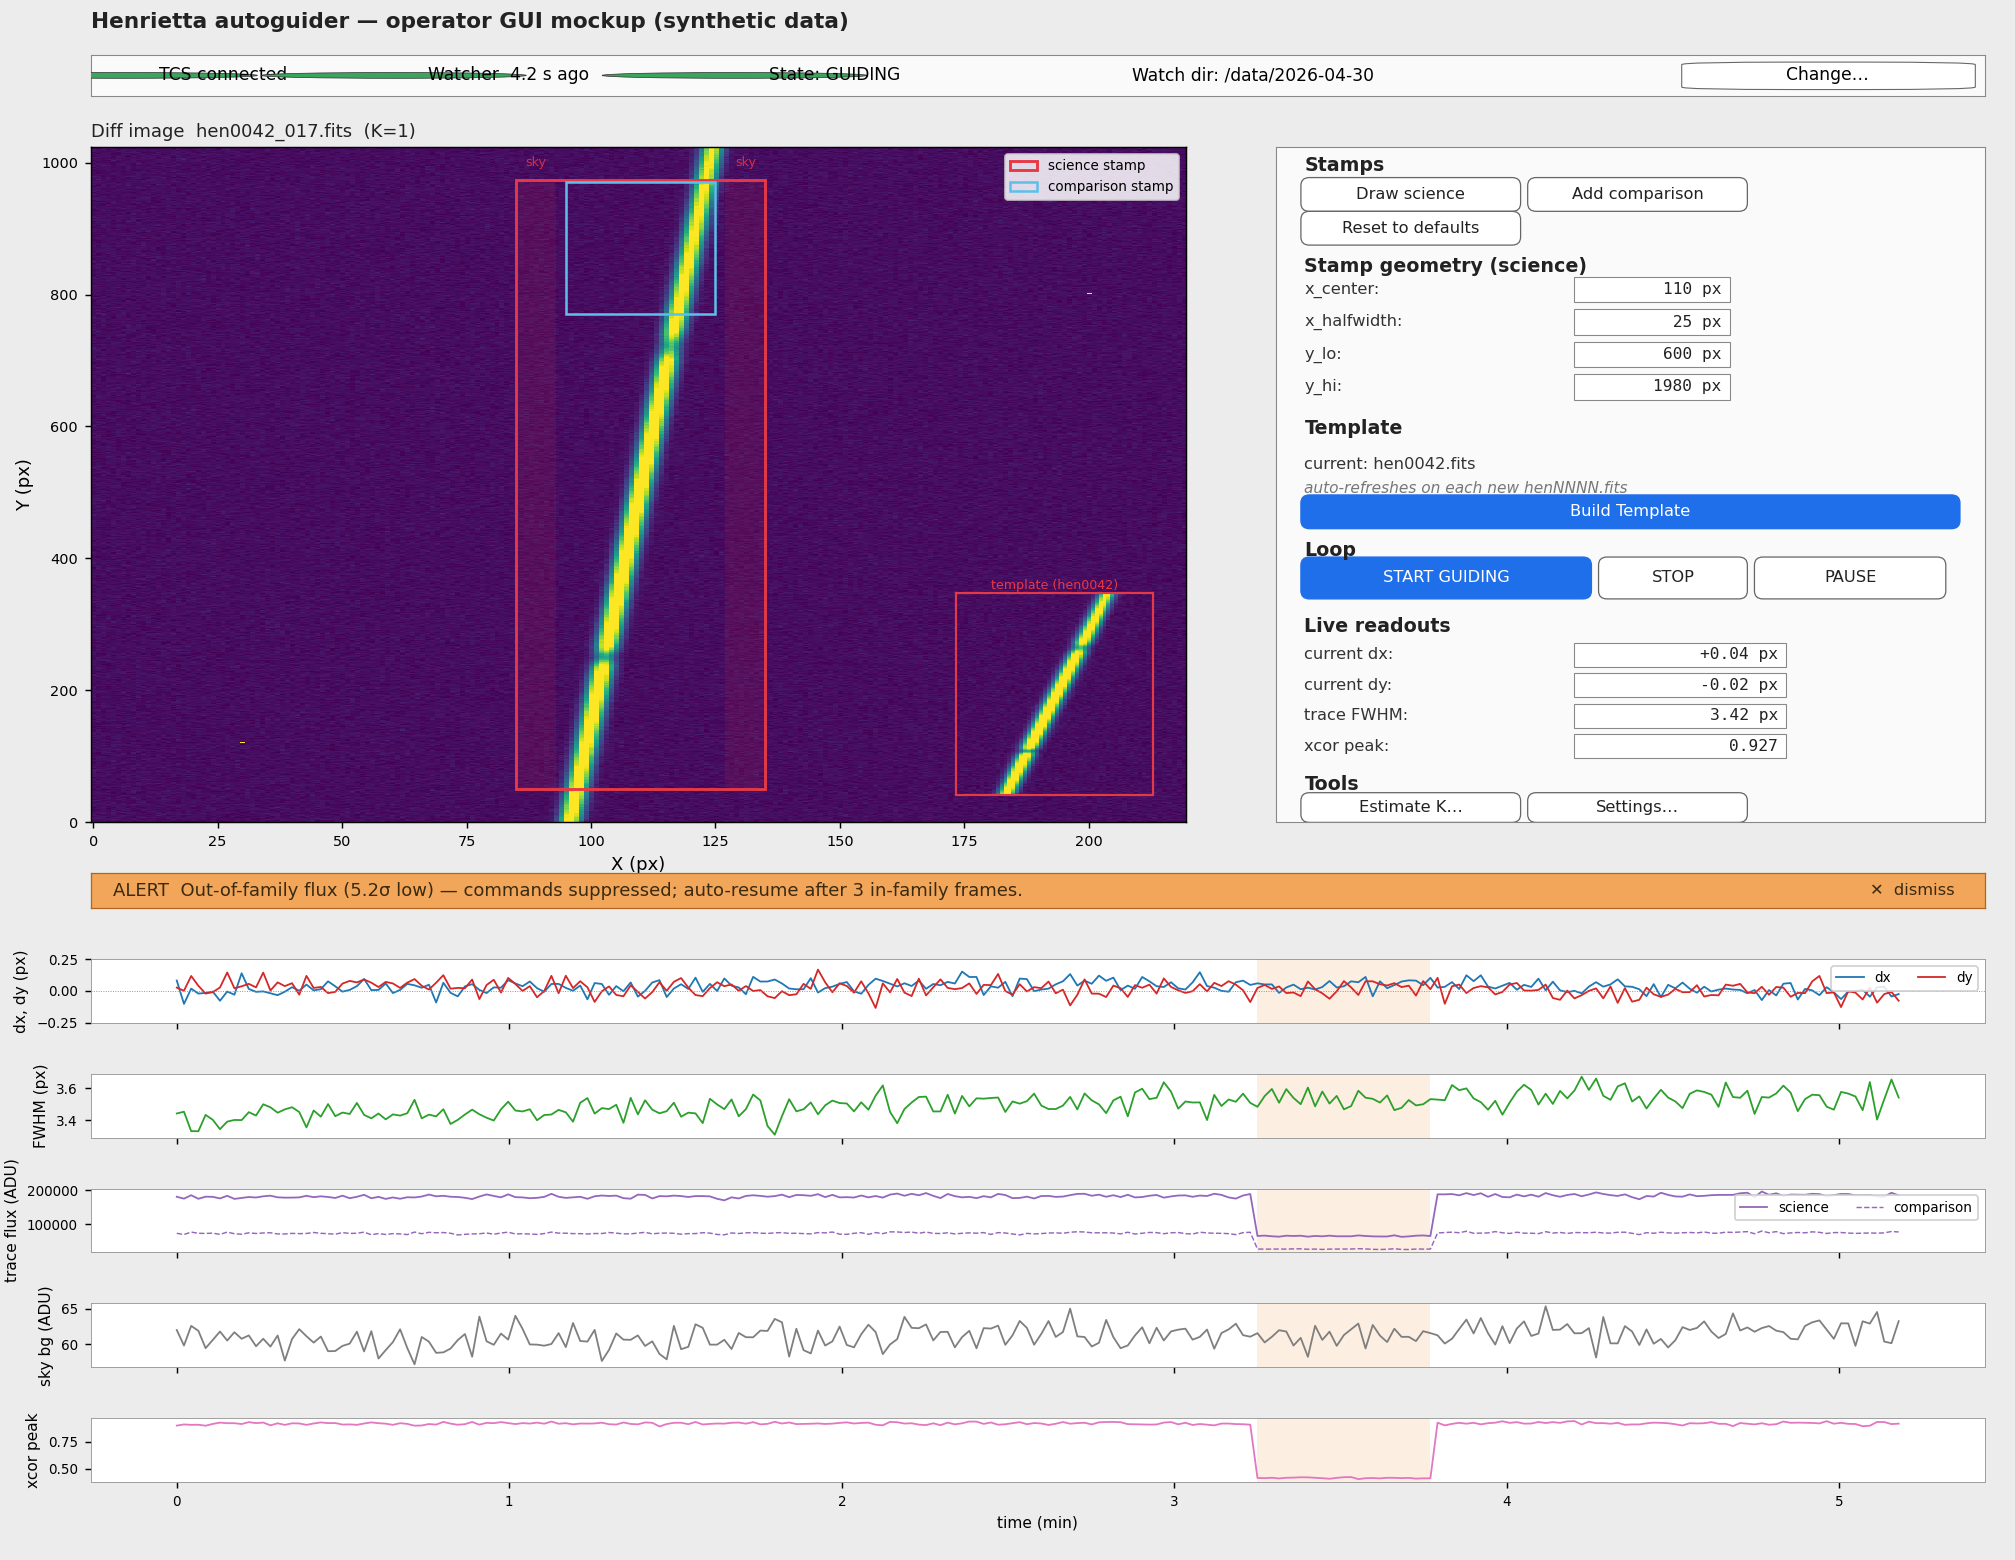
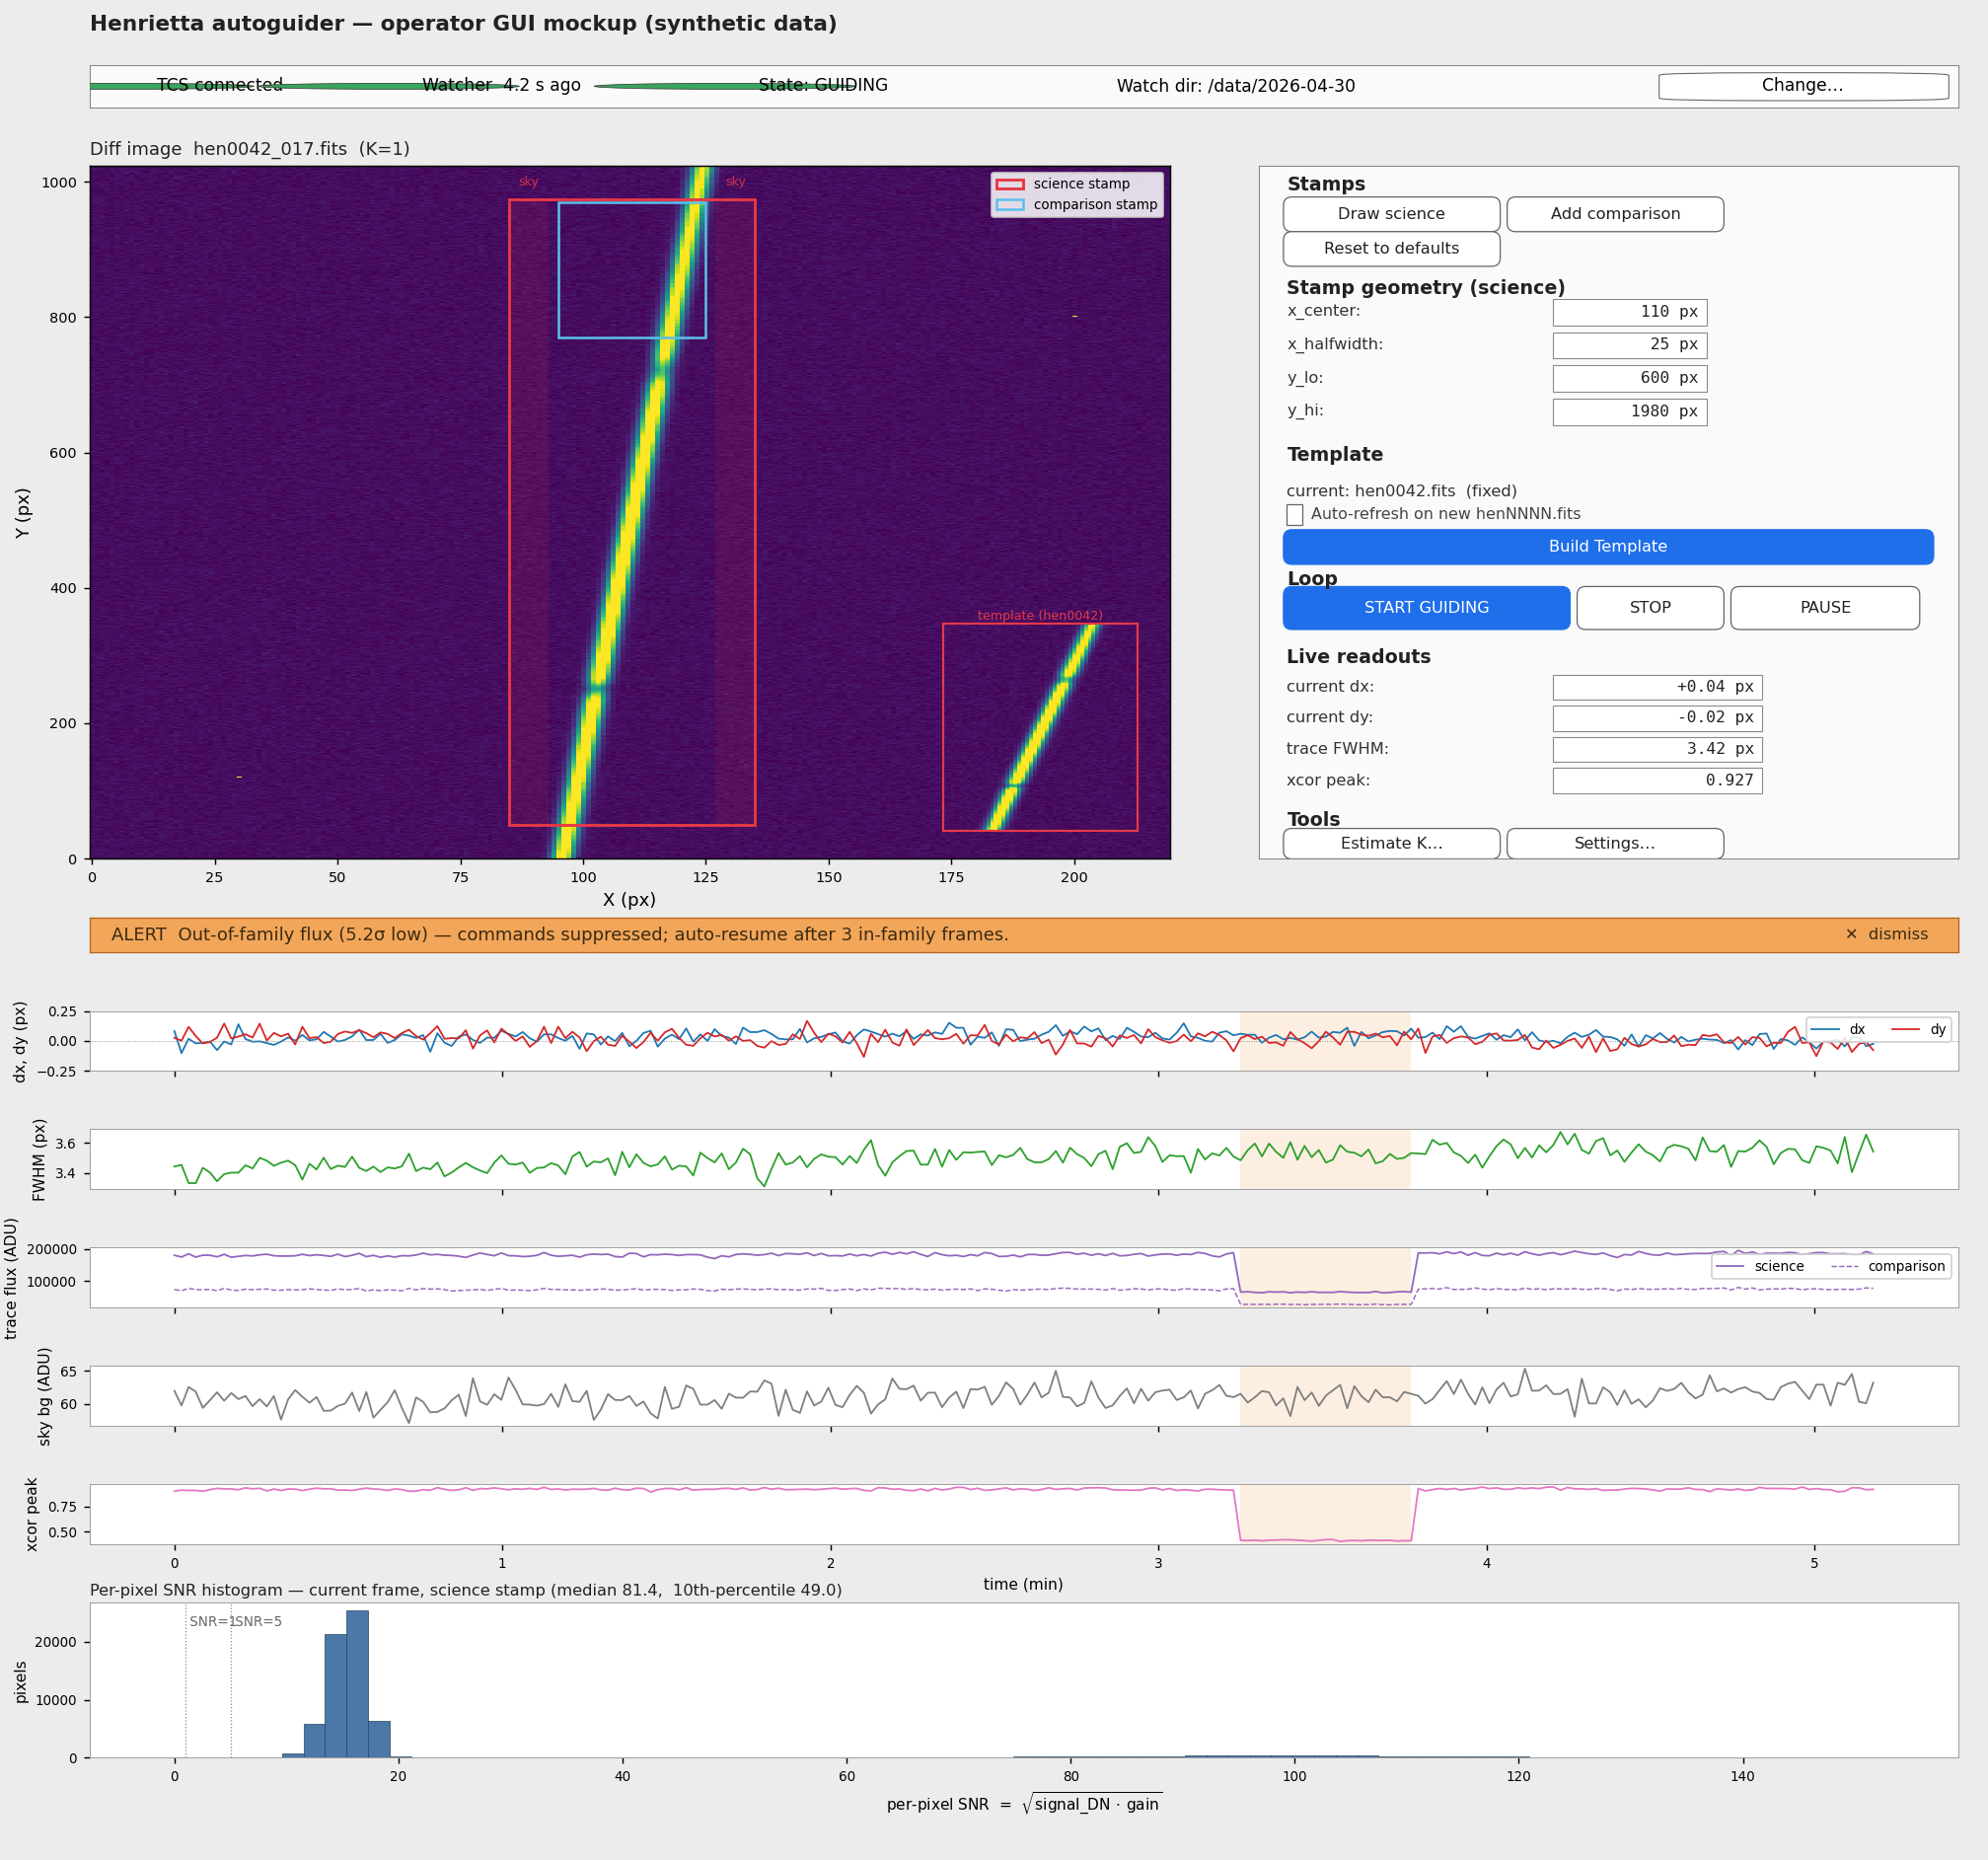
Auto-refresh template is opt-in; add per-pixel SNR histogram panel
Two related changes from the iteration just now:

1. Template behavior: by default the template stays FIXED at whatever
   henNNNN.fits the user pointed at via Build Template. A new config
   reduction.auto_refresh_template (default false), and an Auto-refresh
   checkbox in the GUI Template panel, opts into "promote each
   subsequent successful henNNNN.fits build into the active template."

2. Per-pixel SNR diagnostic. New live histogram showing the
   shot-noise-limited SNR distribution per stamp pixel:
       SNR_per_px = sqrt(signal_DN * gain_e_per_DN)
   where signal_DN = current_read - reset_read (cumulative-since-reset,
   no sky subtraction). Shown as a snapshot histogram at the bottom of
   the GUI, with vertical guides at SNR=1 and SNR=5. Two summary stats
   (median and 10th-percentile) are stored to stamp_measurements per
   frame for retrospective trend analysis.

Mockup updated to match: Auto-refresh checkbox, histogram panel as a
new bottom row.

diff --git a/mockups/gui_mockup.py b/mockups/gui_mockup.py
@@ -92,6 +92,20 @@ def synth_timeseries(n: int = 240, rng: np.random.Generator | None = None):
     return t, dx, dy, fwhm, flux, flux_cmp, sky, xcor
 
 
+def synth_snr_per_pixel(rng: np.random.Generator | None = None,
+                        gain_e_per_dn: float = 4.0) -> np.ndarray:
+    """Synthetic per-pixel SNR distribution for the science stamp:
+    a low-SNR sky pedestal plus a high-SNR trace ridge."""
+    if rng is None:
+        rng = np.random.default_rng(11)
+    # ~70k pixels in the stamp. Most are sky-dominated (low signal),
+    # a few thousand sit on the trace (high signal).
+    sky_DN   = np.clip(rng.normal(60, 12, 60000), 1, None)
+    trace_DN = np.clip(rng.normal(2400, 800, 8000), 1, None)
+    all_DN   = np.concatenate([sky_DN, trace_DN])
+    return np.sqrt(all_DN * gain_e_per_dn)
+
+
 # ---------------------------------------------------------------------------
 # Figure layout
 # ---------------------------------------------------------------------------
@@ -99,16 +113,19 @@ def synth_timeseries(n: int = 240, rng: np.random.Generator | None = None):
 def render():
     img = synth_image()
     t, dx, dy, fwhm, flux, flux_cmp, sky, xcor = synth_timeseries()
+    snr = synth_snr_per_pixel()
 
-    fig = plt.figure(figsize=(15.5, 12.0), facecolor="#ECECEC")
+    fig = plt.figure(figsize=(15.5, 14.5), facecolor="#ECECEC")
     gs = GridSpec(
-        nrows=9,
+        nrows=10,
         ncols=2,
-        height_ratios=[0.6, 4.5, 4.5, 0.5, 0.92, 0.92, 0.92, 0.92, 0.92],
+        height_ratios=[0.6, 4.5, 4.5, 0.5,
+                       0.85, 0.85, 0.85, 0.85, 0.85,  # 5 time-series rows
+                       2.20],                           # SNR histogram (taller)
         width_ratios=[3.4, 2.2],
-        hspace=0.45,
+        hspace=0.50,
         wspace=0.10,
-        left=0.045, right=0.985, top=0.965, bottom=0.05,
+        left=0.045, right=0.985, top=0.965, bottom=0.055,
     )
 
     # ---- status bar (top) ---------------------------------------------------
@@ -250,14 +267,17 @@ def render():
 
     # Template section
     section(ax_ctrl, 0.575, "Template")
-    ax_ctrl.text(0.04, 0.530, "current: hen0042.fits",
+    ax_ctrl.text(0.04, 0.530, "current: hen0042.fits  (fixed)",
                  transform=ax_ctrl.transAxes,
                  va="center", ha="left", fontsize=9, color="#333")
-    ax_ctrl.text(0.04, 0.495, "auto-refreshes on each new henNNNN.fits",
+    # Unchecked checkbox + label
+    ax_ctrl.add_patch(mpatches.Rectangle(
+        (0.04, 0.482), 0.022, 0.030, transform=ax_ctrl.transAxes,
+        facecolor="white", edgecolor="#666", lw=0.7))
+    ax_ctrl.text(0.075, 0.497, "Auto-refresh on new henNNNN.fits",
                  transform=ax_ctrl.transAxes,
-                 va="center", ha="left", fontsize=8.5, color="#777",
-                 fontstyle="italic")
-    button(ax_ctrl, 0.04, 0.440, 0.92, 0.040, "Build Template", primary=True)
+                 va="center", ha="left", fontsize=8.8, color="#444")
+    button(ax_ctrl, 0.04, 0.430, 0.92, 0.040, "Build Template", primary=True)
 
     # Loop section
     section(ax_ctrl, 0.395, "Loop")
@@ -326,6 +346,30 @@ def render():
             ax.set_xlabel("time (min)", fontsize=8.5)
         else:
             ax.set_xticklabels([])
+
+    # ---- per-pixel SNR histogram (last row, full width) --------------------
+    ax_hist = fig.add_subplot(gs[9, :])
+    ax_hist.set_facecolor("#FFFFFF")
+    for s in ax_hist.spines.values():
+        s.set_edgecolor("#999"); s.set_linewidth(0.5)
+    bins = np.linspace(0, snr.max() * 1.05, 80)
+    ax_hist.hist(snr, bins=bins, color="#4c78a8", edgecolor="#274860",
+                 linewidth=0.4)
+    ax_hist.axvline(1.0,  color="#888", lw=0.7, ls=":")
+    ax_hist.axvline(5.0,  color="#888", lw=0.7, ls=":")
+    ax_hist.text(1.0,  ax_hist.get_ylim()[1] * 0.92, " SNR=1",
+                 color="#666", fontsize=7.5, va="top")
+    ax_hist.text(5.0,  ax_hist.get_ylim()[1] * 0.92, " SNR=5",
+                 color="#666", fontsize=7.5, va="top")
+    ax_hist.set_xlabel(r"per-pixel SNR  =  $\sqrt{\mathrm{signal\_DN}\,\cdot\,\mathrm{gain}}$",
+                       fontsize=8.5)
+    ax_hist.set_ylabel("pixels", fontsize=8.5)
+    ax_hist.set_title(
+        "Per-pixel SNR histogram — current frame, science stamp "
+        "(median 81.4,  10th-percentile 49.0)",
+        fontsize=9, loc="left", color="#222", pad=4,
+    )
+    ax_hist.tick_params(labelsize=7.5)
 
     fig.suptitle(
         "Henrietta autoguider — operator GUI mockup (synthetic data)",

diff --git a/docs/superpowers/specs/2026-04-30-henrietta-autoguider-design.md b/docs/superpowers/specs/2026-04-30-henrietta-autoguider-design.md
@@ -395,21 +395,31 @@ science stamp (and optionally the comparison stamp) from that file,
 applies the BPM, and runs the local sky subtraction described above.
 The resulting bg-subtracted, masked stamp **is** the template `T(x, y)`.
 
-**Sliding template — single most-recent good frame.** Each
-`henNNNN.fits` is already a slope-fit across all that integration's
+**Template lifecycle — fixed by default; auto-refresh is opt-in.**
+Each `henNNNN.fits` is already a slope-fit across all that integration's
 SUTRs, so on its own it is a high-SNR representation of the trace. The
-autoguider keeps **one** template at a time: the most recent
-`henNNNN.fits` for which the build succeeded (no read error, enough
-unmasked pixels in the stamp, non-zero variance after sky subtraction).
-As new `henNNNN.fits` files arrive, each is offered for promotion; on
-success it replaces the active template, and on failure the previous
-template continues in use. This gives drift adaptation across a long
-night without any averaging machinery to manage.
+autoguider keeps **one** template at a time.
 
-When the user clicks **"Build Template"**, the most recent `henNNNN.fits`
-is taken (failing the request if none has arrived yet on the current
-target). After that click guiding can start immediately on that
-template; subsequent arrivals continue to refresh it automatically.
+When the user clicks **"Build Template"**, the most recent
+`henNNNN.fits` is taken (failing the request if none has arrived yet on
+the current target). The build is validated (no read error, enough
+unmasked pixels in the stamp, non-zero variance after sky subtraction).
+On success that frame becomes the active template and the GUI moves to
+`REFERENCE_SET`; on failure an `ERROR` banner appears and the user
+stays in `REFERENCE_PENDING`.
+
+By default the template **stays fixed** for the rest of the session —
+exactly the frame the user pointed at, until they explicitly click
+Build Template again or the state machine resets it (stale-frame
+timeout, target switch, watch-dir change).
+
+Setting `reduction.auto_refresh_template = true` (or toggling the
+**Auto-refresh** checkbox in the Template panel) enables an opt-in
+behaviour: each subsequent `henNNNN.fits` is offered for promotion;
+on a successful build it replaces the active template, and on a
+failure the previous template stays in use. This trades a fixed
+reference for one that follows slow shape evolution (water vapour,
+airmass, thermal drift, flexure) on long sequences.
 
 The template is held in memory only and is **not** persisted across
 restarts — it must be re-built each time the autoguider starts.
@@ -474,6 +484,21 @@ Per-frame quantities recorded for analysis:
 - `sky_background_adu` — median of per-row sky pedestals.
 - `template_frame_number` — which `henNNNN.fits` produced the active
   template, for retrospective traceability.
+- **Per-pixel shot-noise-limited SNR.** Using the cumulative signal in
+  the current frame (i.e., `current_read − reset_read`, not the K-window
+  diff) without sky subtraction:
+
+  ```
+  signal_DN     = current_read − reset_read     # per pixel, full frame so far
+  SNR_per_px    = sqrt(signal_DN × gain_e_per_DN)
+  ```
+
+  This is the per-pixel SNR you'd have under shot-noise-only assumption.
+  It's a snapshot per guide image; the stamp's distribution is shown as
+  a live histogram in the GUI (§9). Two summary stats land in
+  `stamp_measurements` for retrospective trend analysis:
+  `signal_snr_median` and `signal_snr_p10` (10th-percentile across
+  unmasked stamp pixels).
 
 `(dx_px, dy_px)` are converted to sky offsets (§6).
 
@@ -682,6 +707,8 @@ CREATE TABLE stamp_measurements (
     trace_fwhm_x_px       REAL,
     trace_flux_adu        REAL,
     sky_background_adu    REAL,
+    signal_snr_median     REAL,               -- median sqrt(DN·gain) over unmasked stamp pixels
+    signal_snr_p10        REAL,               -- 10th-percentile of the same
     quality_flags         TEXT,               -- JSON
     PRIMARY KEY (frame_number, sutr_number, stamp_id),
     FOREIGN KEY (frame_number, sutr_number)
@@ -724,6 +751,11 @@ Sections: `[loop]`, `[quality]`, `[reduction]`, `[files]`, `[tcs]`,
 - `reduction.stamp_y_lo = 600`, `reduction.stamp_y_hi = 1980`
   (filter cutoff to filter cutoff; tune per detector / filter)
 - `reduction.xcor_search_radius_px = 12`
+- `reduction.auto_refresh_template = false`
+  (when `true`, each new `henNNNN.fits` that builds successfully
+  replaces the active template; useful for hours-long sequences where
+  slow shape evolution matters. Default off — the template stays fixed
+  until the user clicks Build Template again.)
 - `reduction.template_min_peak_value = 0.0`
   (minimum acceptable xcor peak value; below this the frame is flagged
   in `quality_flags`. Default 0 = no threshold; tune empirically.)
@@ -775,7 +807,9 @@ Single Tk window, layout:
 │                          │    y_lo:        __________ px             │
 │                          │    y_hi:        __________ px             │
 │                          │                                           │
-│                          │  Template:  hen0042.fits  (auto-refresh)  │
+│                          │  Template:  hen0042.fits                  │
+│                          │             [ ] Auto-refresh on new       │
+│                          │                 henNNNN.fits              │
 │                          │             [Build Template]              │
 │                          │                                           │
 │                          │  Loop:     [START]  [STOP]  [PAUSE]       │
@@ -788,6 +822,10 @@ Single Tk window, layout:
 │     sky_background_adu                                               │
 │     xcor_peak_value      — drops on cloud / template mismatch        │
 │     commands sent (RA, Dec)                                          │
+├──────────────────────────────────────────────────────────────────────┤
+│   Per-pixel SNR histogram (current frame, science stamp):            │
+│     X = √(signal_DN · gain),  Y = pixel count                        │
+│     vertical guides at SNR = 1, 5; redraws on every guide image      │
 └──────────────────────────────────────────────────────────────────────┘
 ```
 